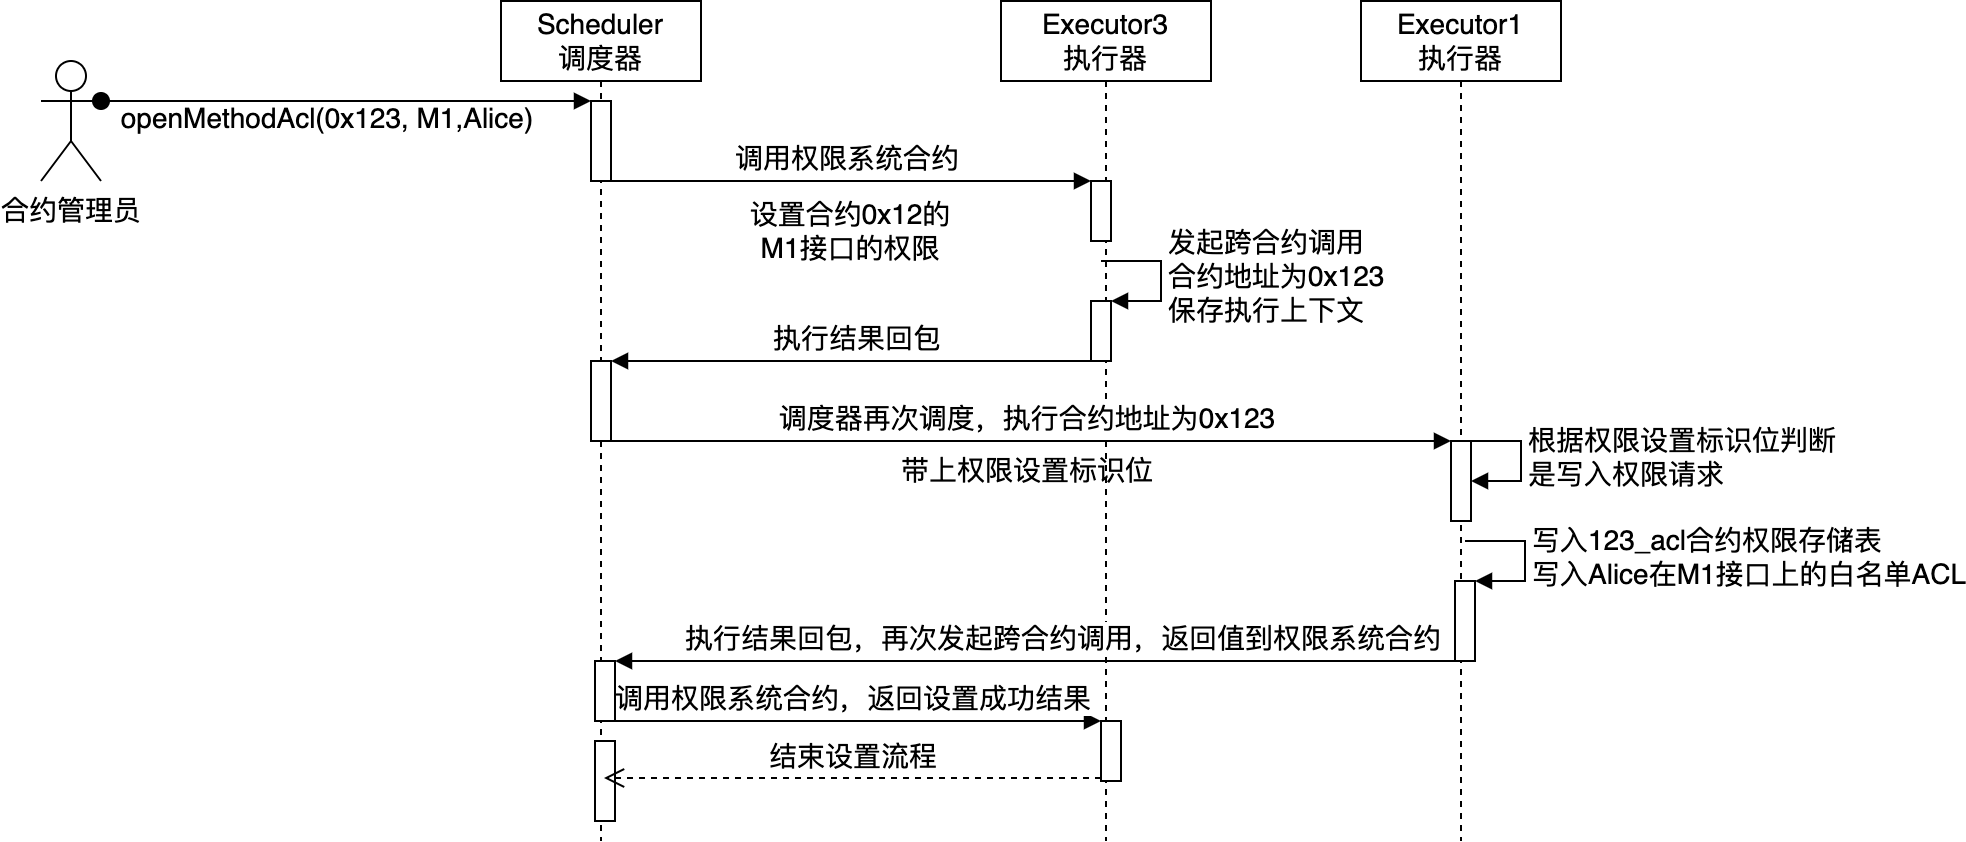
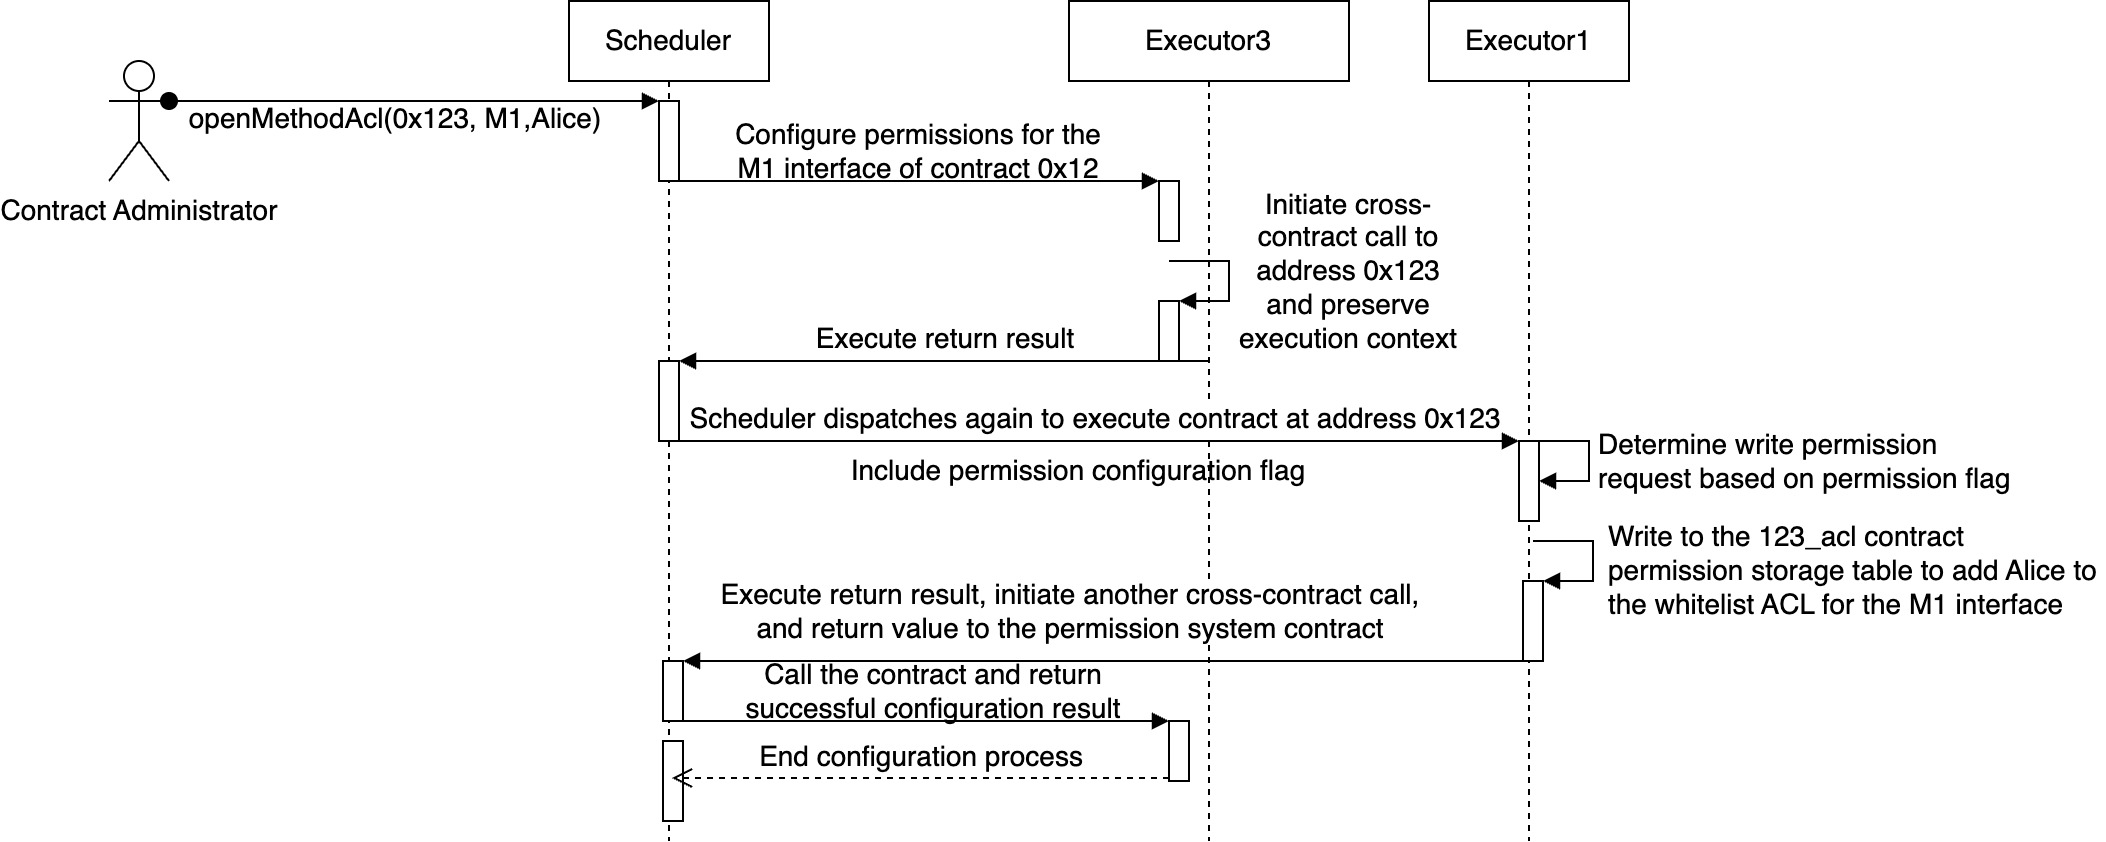
Updated English in figures (#64)
* delete Chinese from figures

* Update committee.md

diff --git a/docs/developer/committee.md b/docs/developer/committee.md
@@ -240,9 +240,7 @@ During execution, it will verify whether the EOA account address of `tx.origin` 
 
 After the contract deployment transaction is executed, the default administrator of the contract is the EOA account address of the contract deployer, i.e., `tx.origin`. If a contract interface is called to deploy a contract, then the default contract administrator for that deployed contract is the tx.origin EOA account address.
 
-When the contract deployment creates the contract storage table, it will include the creation of a contract permission control appendix, as shown below. The contract administrator will change the contract interface permissions by changing this permission control appendix.
-
-![](../_static/developer/permission_bcos_layer.drawio.png)
+When the contract deployment creates the contract storage table, it will include the creation of a contract permission control appendix. The contract administrator will change the contract interface permissions by changing this permission control appendix.
 
 #### Contract Interface Permission Control
 
